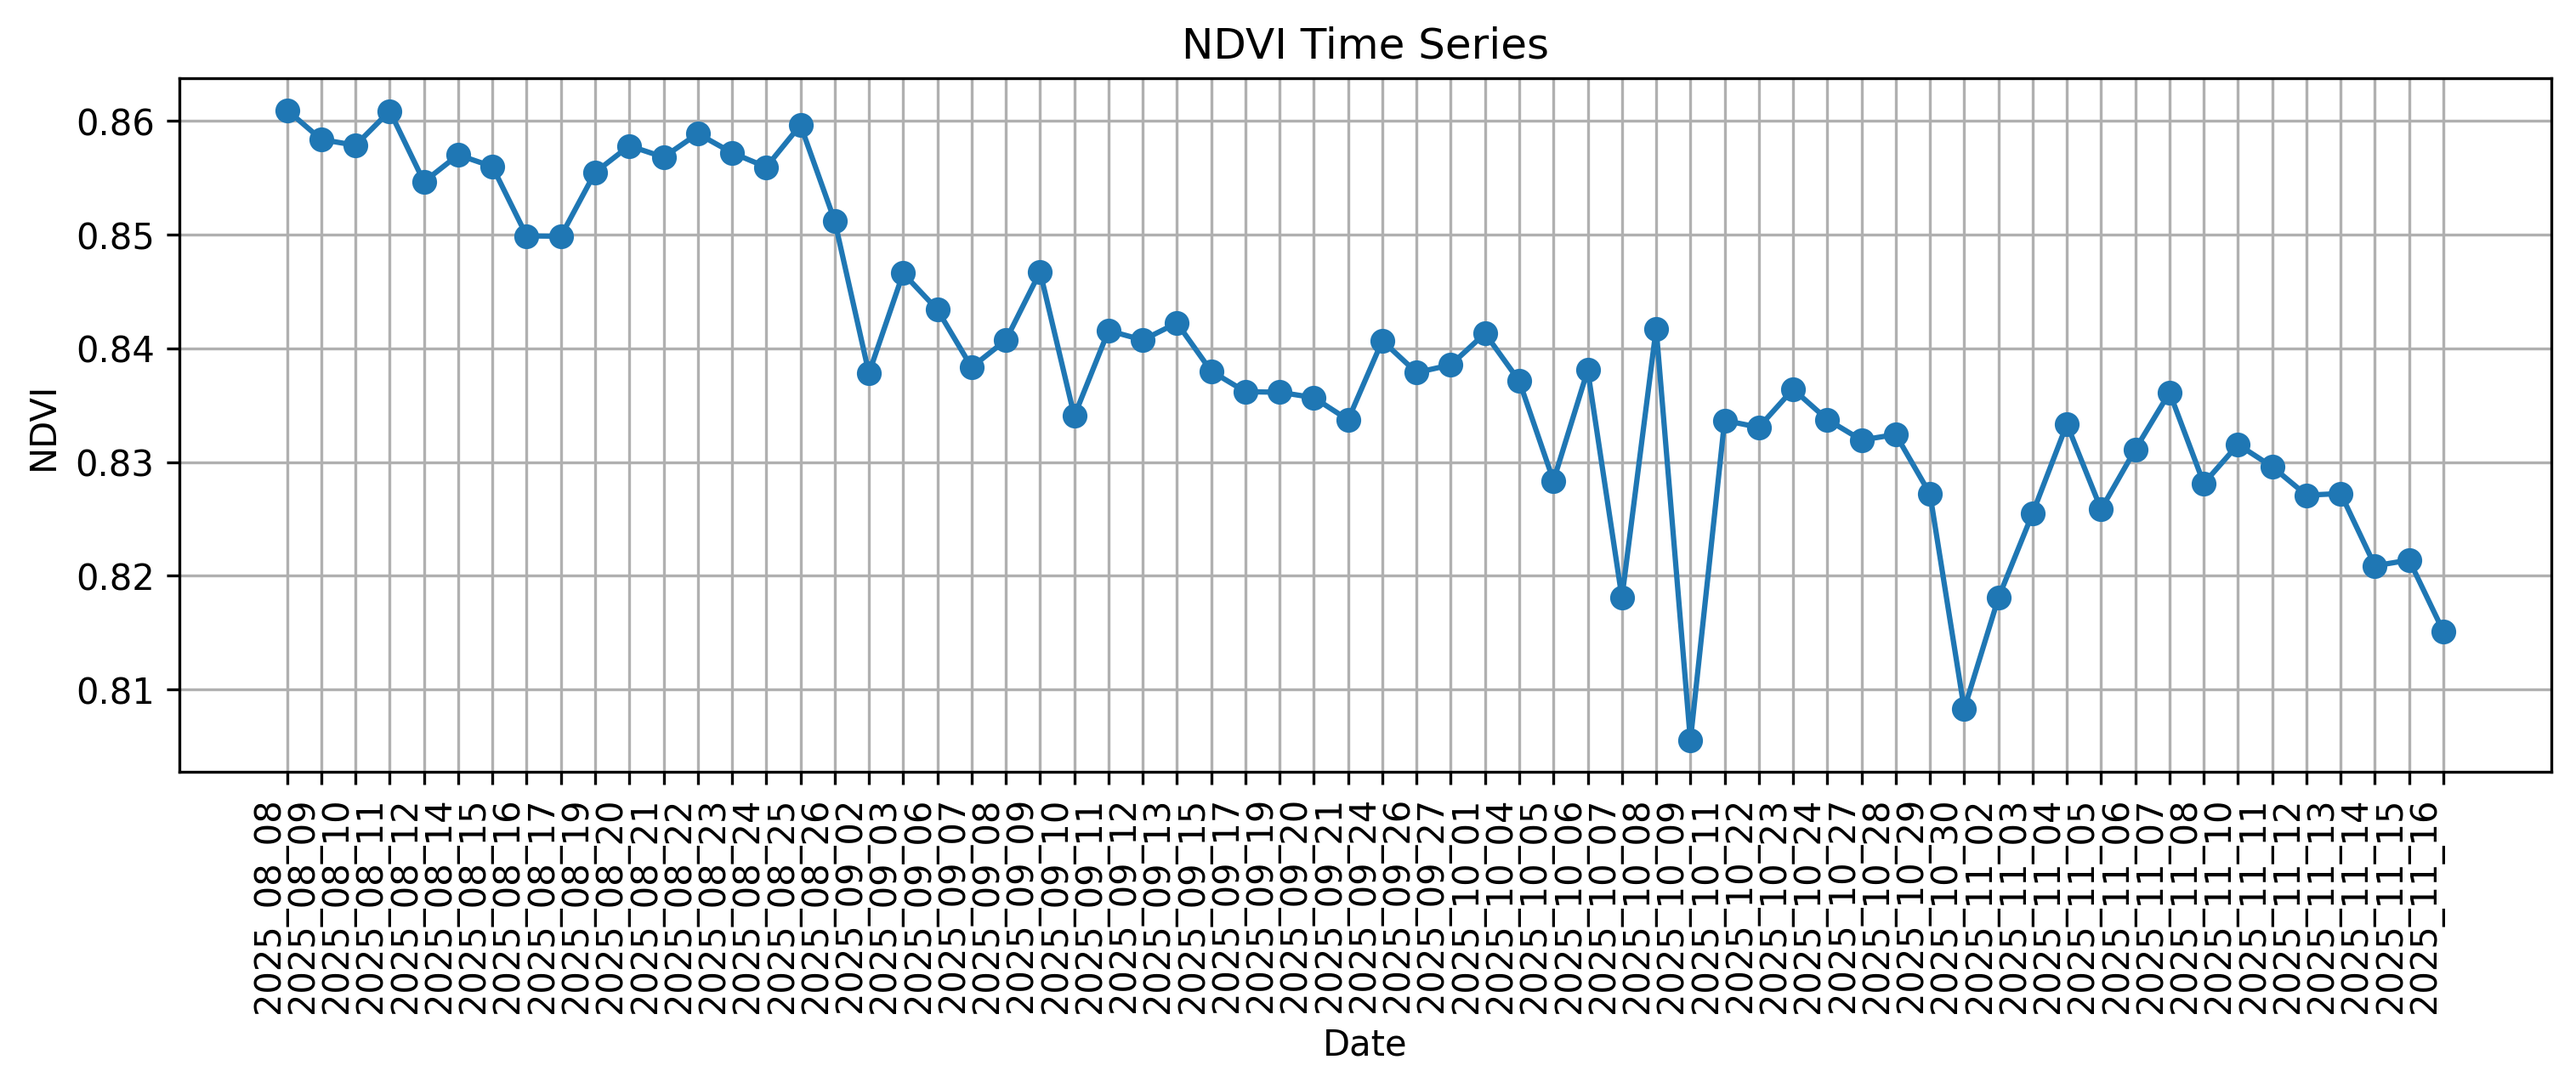
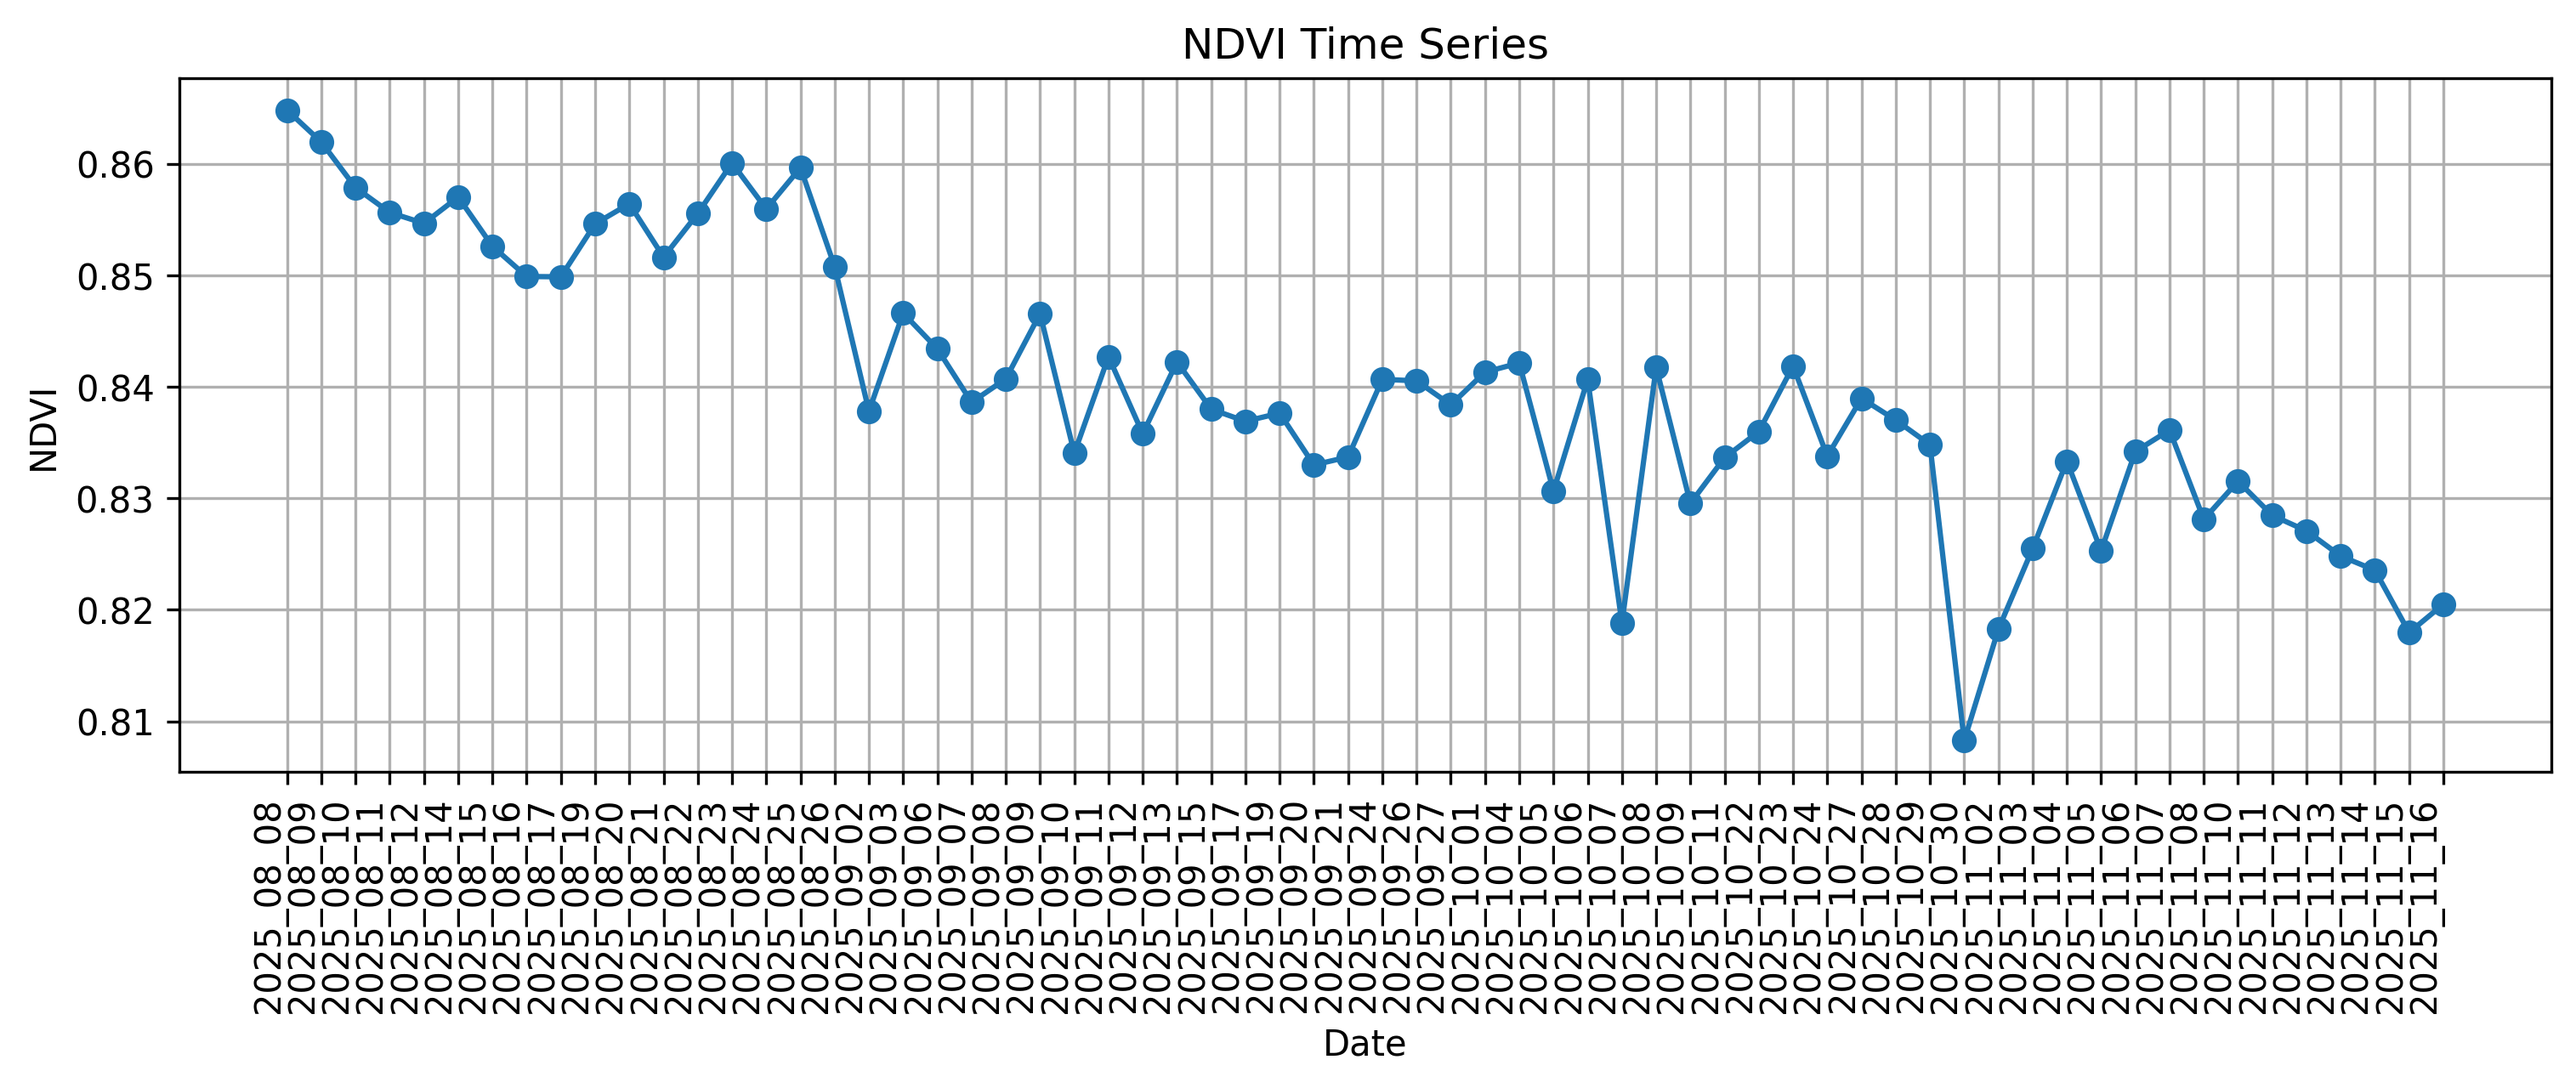
Update index.html, ndvi_plot.json, ndvi_plot.png, and 9 more files

diff --git a/Frontend/index.html b/Frontend/index.html
@@ -11,8 +11,9 @@
   <nav>
     <a href="#" onclick="showPage('home', event)" class="nav-link active">Home</a>
     <a href="#" onclick="showPage('data', event)" class="nav-link">Data & Visualizations</a>
-    <a href="#" onclick="showPage('gallery', event)" class="nav-link">Gallery</a>
     <a href="#" onclick="showPage('about', event)" class="nav-link">About</a>
+    <a href="#" onclick="showPage('gallery', event)" class="nav-link">Gallery</a>
+    
   </nav>
 
   <div id="home" class="page active">
@@ -71,12 +72,17 @@
             <path d="M18 17l-3-3-3 3-3-3-3 3"/>
           </svg>
           Vegetation Index Trends
+          
+
         </h3>
+        
         <div class="controls">
+          
+
           <!-- <button class="btn" onclick="generateSampleData()">📊 Generate Sample Data</button>
           <button class="btn" onclick="updateChart()">🔄 Refresh</button> -->
         </div>
-        <div id="chart"></div>
+        <div id="chart">load_ndviPng()</div>
       </div>
     </div>
   </div>
